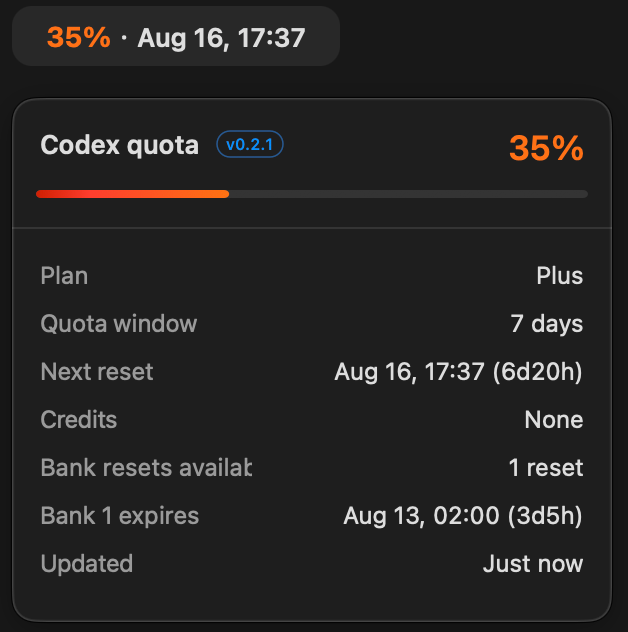
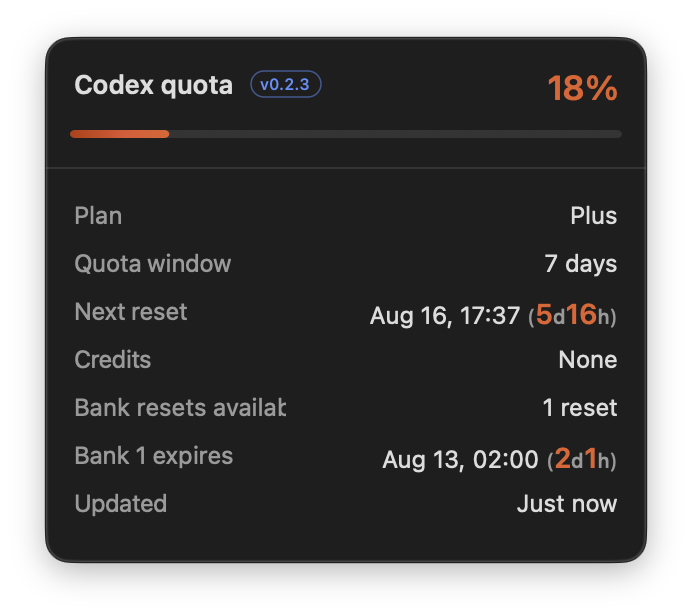
docs: refresh countdown typography screenshots

diff --git a/README.md b/README.md
@@ -29,13 +29,13 @@
 ## Actual appearance
 
 <p align="center">
-  <img src="docs/images/quota-popover-en-light.png" alt="Codex Usage Sidebar v0.2.1 in the light theme" width="48%">
-  <img src="docs/images/quota-popover-en-dark.png" alt="Codex Usage Sidebar v0.2.1 in the dark theme" width="48%">
+  <img src="docs/images/quota-popover-en-light.png" alt="Codex Usage Sidebar v0.2.3 with emphasized countdown values in the light theme" width="48%">
+  <img src="docs/images/quota-popover-en-dark.png" alt="Codex Usage Sidebar v0.2.3 with emphasized countdown values in the dark theme" width="48%">
 </p>
 
 <p align="center"><em>Light theme · Dark theme</em></p>
 
-<p align="center">Real captures of the localized popover in both Codex themes. The popover design is unchanged in v0.2.3.</p>
+<p align="center">Real v0.2.3 captures in both Codex themes. Larger, color-synced countdown numbers make the remaining days and hours easy to scan while the units stay understated.</p>
 
 ## Adaptive titlebar placement
 

diff --git a/README.zh-CN.md b/README.zh-CN.md
@@ -19,13 +19,13 @@
 ## 当前实际效果
 
 <p align="center">
-  <img src="docs/images/quota-popover-zh-light.png" alt="浅色主题下的 Codex Usage Sidebar v0.2.1" width="48%">
-  <img src="docs/images/quota-popover-zh-dark.png" alt="深色主题下的 Codex Usage Sidebar v0.2.1" width="48%">
+  <img src="docs/images/quota-popover-zh-light.png" alt="浅色主题下突出显示剩余时间数字的 Codex Usage Sidebar v0.2.3" width="48%">
+  <img src="docs/images/quota-popover-zh-dark.png" alt="深色主题下突出显示剩余时间数字的 Codex Usage Sidebar v0.2.3" width="48%">
 </p>
 
 <p align="center"><em>浅色主题 · 深色主题</em></p>
 
-<p align="center">简体中文浮窗在两种 Codex 主题下的真实截图；v0.2.3 保持相同的浮窗设计。</p>
+<p align="center">v0.2.3 在两种 Codex 主题下的真实截图；剩余天数与小时数字使用更大字号并同步额度颜色，单位则保持弱化，扫一眼即可识别。</p>
 
 ## 自适应标题栏定位
 
